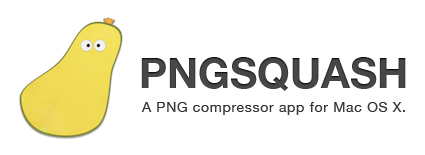
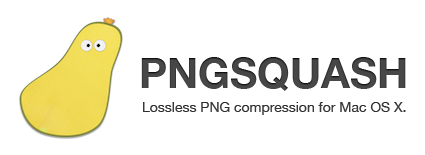
Updated title, description, &c.

Changed region(s): [[0.3365, 0.6452, 0.9788, 0.7484]]

diff --git a/index.html b/index.html
@@ -2,8 +2,8 @@
 <html>
 <head>
 	<meta charset="UTF-8" />
-	<meta name="description" content="A PNG compressor app for Mac OS X." />
-	<title>PNGSquash — Lossless PNG Compression for Mac OS X</title>
+	<meta name="description" content="Lossless PNG compression for Mac OS X." />
+	<title>PNGSquash — A Native PNG Compressor for Mac</title>
 
 	<link rel="icon" href="/favicon.png" type="image/png" />
 	<link type="text/css" rel="stylesheet" media="all" href="pngsquash-min.css" />
@@ -29,7 +29,7 @@
 
 		<div id="inner-row">
 			<div id="inner-box">
-			<a href="http://itunes.apple.com/us/app/pngsquash/id442141176?mt=12"><img src="images/appstore.png" id="appstore-badge" alt="Available on the Mac App Store." /></a>
+				<a href="http://itunes.apple.com/us/app/pngsquash/id442141176?mt=12"><img src="images/appstore.png" id="appstore-badge" alt="Available on the Mac App Store." /></a>
 			</div>
 		</div>
 
